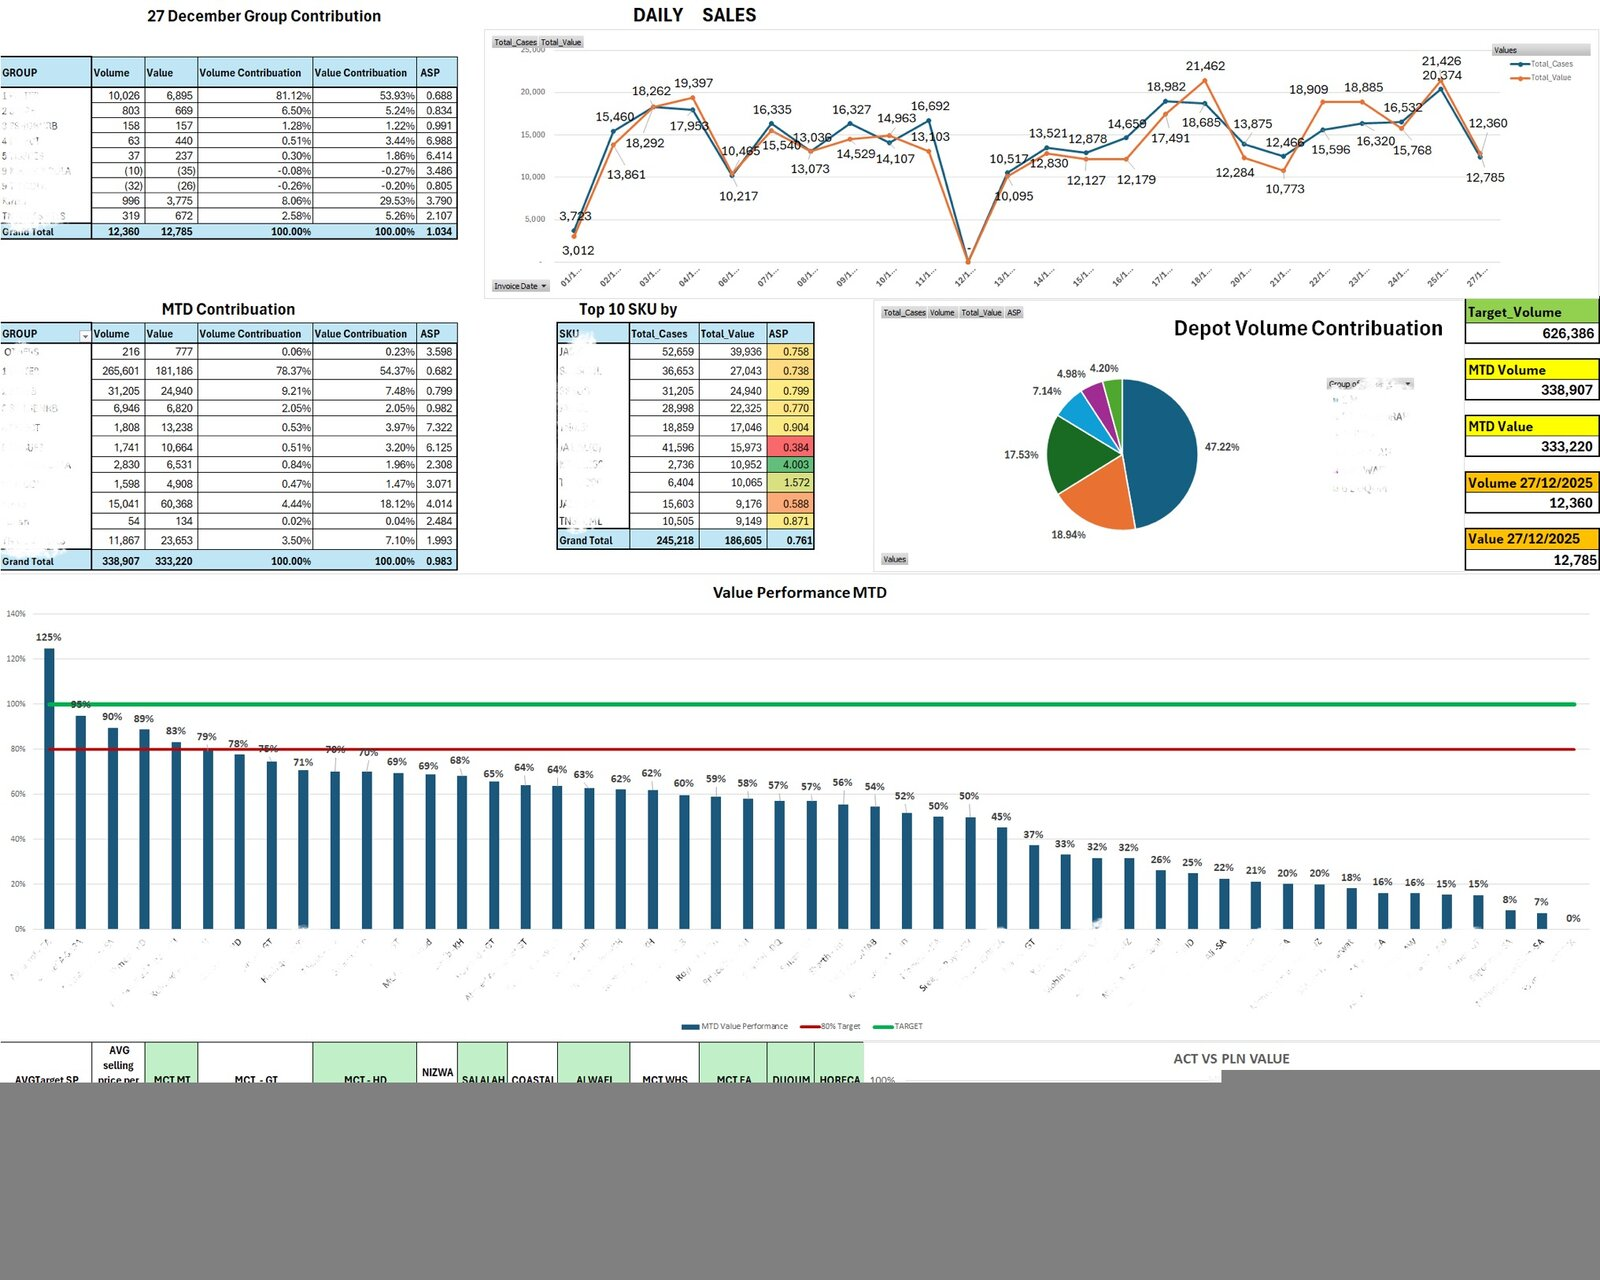
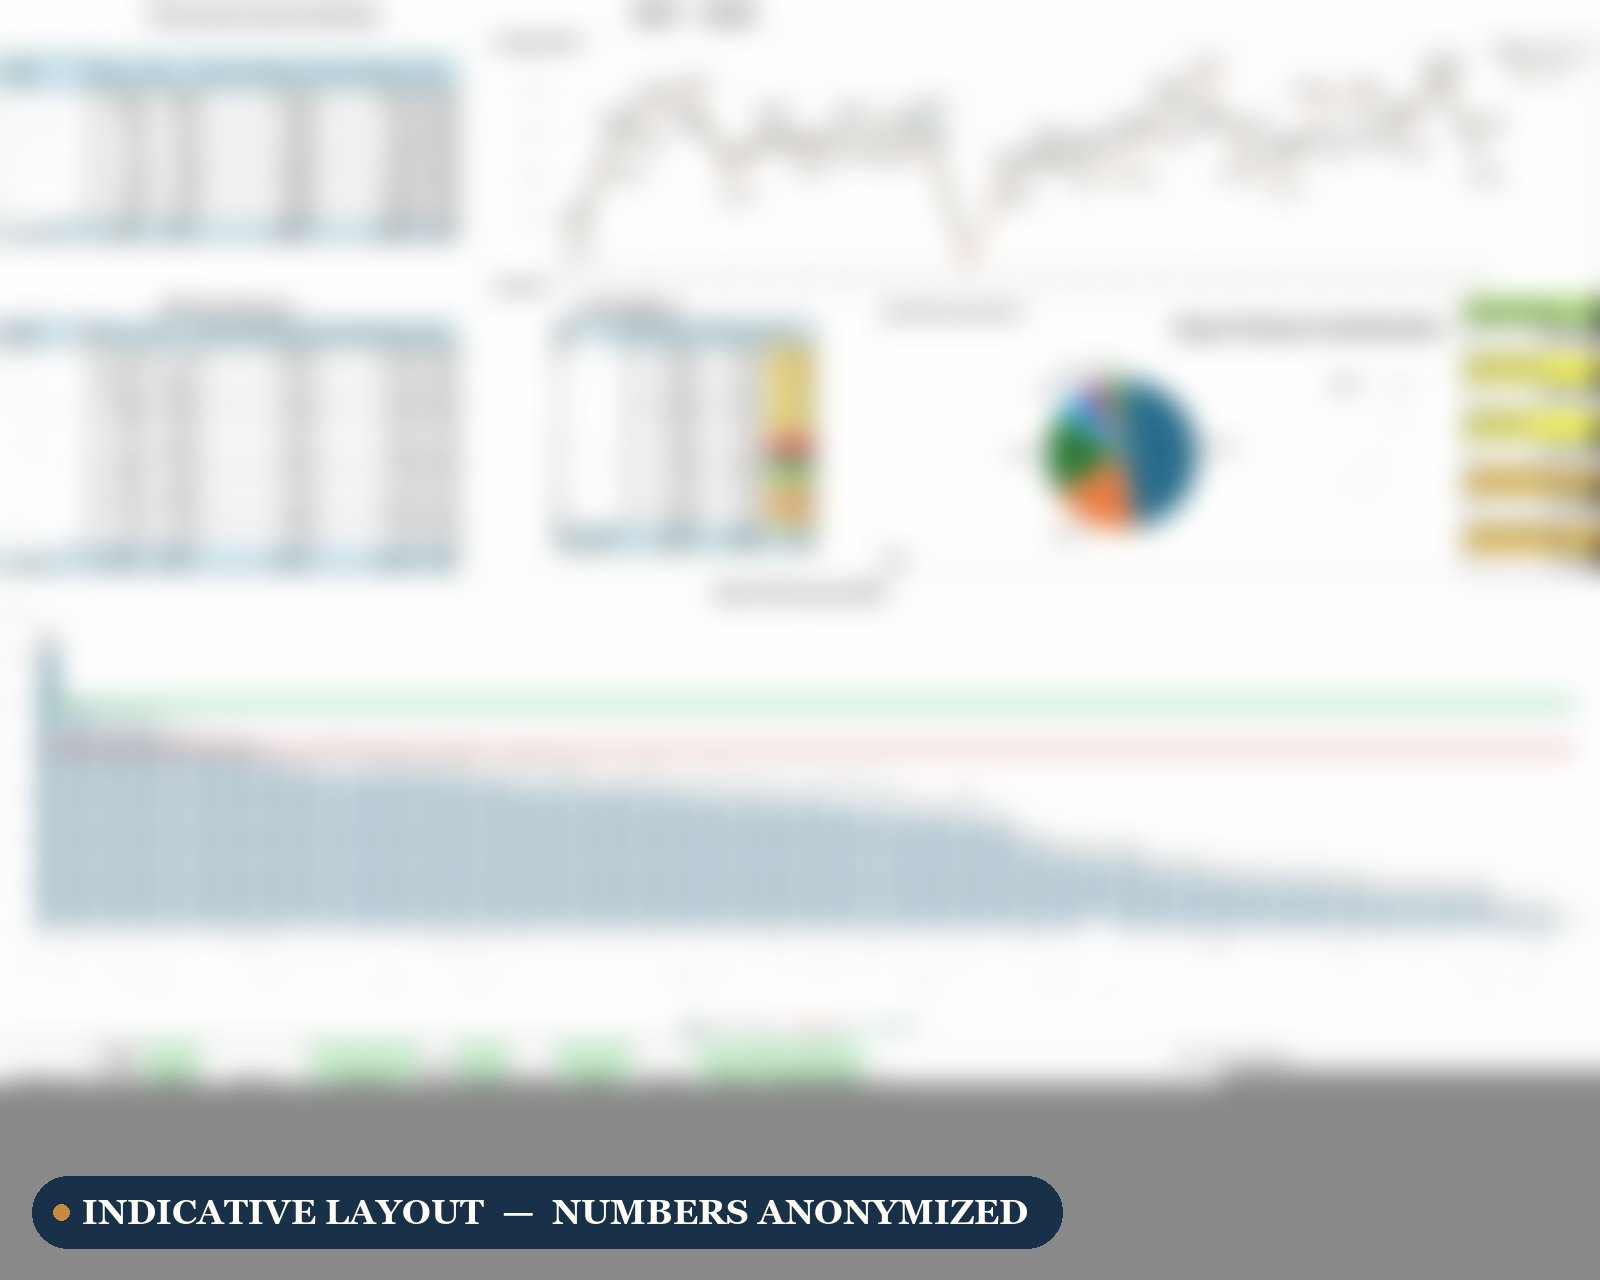
sanitize: anonymize NMWC dashboard screenshots
Heavy Gaussian blur (radius 13) renders all text unreadable.
Subtle cream tint signals 'preview, not raw data'.
Adds 'INDICATIVE LAYOUT — NUMBERS ANONYMIZED' navy/amber pill bottom-left.

Originals preserved locally in assets/projects/dashboards/_originals_backup/
(gitignored, never pushed).

Re-run via: py sanitize_dashboards.py

diff --git a/sanitize_dashboards.py b/sanitize_dashboards.py
@@ -1,0 +1,137 @@
+"""
+Dashboard image sanitizer.
+
+Replaces public-facing dashboard images with anonymized versions:
+- Heavy Gaussian blur (text becomes unreadable)
+- Subtle warm cream wash (signals 'this is a preview, not raw data')
+- Small caption: 'INDICATIVE LAYOUT — NUMBERS ANONYMIZED'
+
+Originals are preserved in `_originals_backup/` so this is reversible.
+
+Run from anywhere:
+    py sanitize_dashboards.py
+"""
+
+import os
+import shutil
+from pathlib import Path
+
+from PIL import Image, ImageDraw, ImageFilter, ImageFont
+
+# ---- Settings ---------------------------------------------------------------
+
+REPO = Path(__file__).resolve().parent
+DASHBOARDS_DIR = REPO / "assets" / "projects" / "dashboards"
+BACKUP_DIR = DASHBOARDS_DIR / "_originals_backup"
+
+BLUR_RADIUS = 13                                # higher = more illegible
+TINT_RGB = (255, 251, 245)                      # cream
+TINT_AMOUNT = 0.08                              # 0..1
+CAPTION = "INDICATIVE LAYOUT  —  NUMBERS ANONYMIZED"
+CAPTION_BG = (15, 41, 66, 235)                  # navy
+CAPTION_FG = (255, 251, 245, 255)               # cream
+CAPTION_ACCENT = (198, 139, 63, 255)            # amber
+
+# ---- Helpers ----------------------------------------------------------------
+
+def _load_font(size: int):
+    """Load a Windows serif/sans font; fall back to default if none found."""
+    candidates = [
+        r"C:\Windows\Fonts\georgiab.ttf",  # Georgia Bold
+        r"C:\Windows\Fonts\georgia.ttf",
+        r"C:\Windows\Fonts\seguisb.ttf",   # Segoe UI Semibold
+        r"C:\Windows\Fonts\segoeui.ttf",
+        r"C:\Windows\Fonts\arialbd.ttf",
+        r"C:\Windows\Fonts\arial.ttf",
+    ]
+    for c in candidates:
+        if os.path.exists(c):
+            try:
+                return ImageFont.truetype(c, size)
+            except Exception:
+                continue
+    return ImageFont.load_default()
+
+# ---- Core -------------------------------------------------------------------
+
+def sanitize(jpg_path: Path):
+    """Sanitize one image in place, backing up the original first."""
+    BACKUP_DIR.mkdir(parents=True, exist_ok=True)
+    backup = BACKUP_DIR / jpg_path.name
+    if not backup.exists():
+        shutil.copy2(jpg_path, backup)
+
+    src = Image.open(backup).convert("RGB")
+    w, h = src.size
+
+    # 1. Heavy blur to make text unreadable
+    img = src.filter(ImageFilter.GaussianBlur(radius=BLUR_RADIUS))
+
+    # 2. Subtle cream tint
+    tint = Image.new("RGB", (w, h), TINT_RGB)
+    img = Image.blend(img, tint, TINT_AMOUNT)
+
+    # 3. Caption pill, bottom-left
+    img = img.convert("RGBA")
+    overlay = Image.new("RGBA", (w, h), (0, 0, 0, 0))
+    draw = ImageDraw.Draw(overlay)
+
+    font_size = max(16, h // 36)
+    font = _load_font(font_size)
+    bbox = draw.textbbox((0, 0), CAPTION, font=font)
+    tw, th = bbox[2] - bbox[0], bbox[3] - bbox[1]
+
+    pad_x, pad_y = int(font_size * 1.2), int(font_size * 0.7)
+    box_w, box_h = tw + 2 * pad_x, th + 2 * pad_y
+
+    # Position bottom-left with margin
+    margin = max(20, h // 40)
+    x = margin
+    y = h - box_h - margin
+
+    # Pill background
+    radius = box_h // 2
+    draw.rounded_rectangle(
+        (x, y, x + box_w, y + box_h),
+        radius=radius,
+        fill=CAPTION_BG,
+    )
+
+    # Amber dot accent
+    dot_r = max(3, font_size // 4)
+    dot_cx = x + pad_x // 2 + dot_r
+    dot_cy = y + box_h // 2
+    draw.ellipse(
+        (dot_cx - dot_r, dot_cy - dot_r, dot_cx + dot_r, dot_cy + dot_r),
+        fill=CAPTION_ACCENT,
+    )
+
+    # Caption text
+    draw.text((x + pad_x + dot_r, y + pad_y - bbox[1]), CAPTION, fill=CAPTION_FG, font=font)
+
+    img = Image.alpha_composite(img, overlay).convert("RGB")
+    img.save(jpg_path, "JPEG", quality=86, optimize=True)
+    print(f"  [done] {jpg_path.name}  ({w}x{h})")
+
+
+def main():
+    if not DASHBOARDS_DIR.exists():
+        raise SystemExit(f"Dashboards directory not found: {DASHBOARDS_DIR}")
+
+    targets = [p for p in DASHBOARDS_DIR.glob("*.jpg") if not p.name.startswith("_")]
+    if not targets:
+        raise SystemExit("No .jpg files found to sanitize.")
+
+    print(f"Sanitizing {len(targets)} dashboard image(s)...")
+    print(f"  Originals preserved in: {BACKUP_DIR}")
+    print()
+
+    for p in sorted(targets):
+        sanitize(p)
+
+    print()
+    print("Done. To revert, copy files from _originals_backup/ back over the originals.")
+
+
+if __name__ == "__main__":
+    main()
